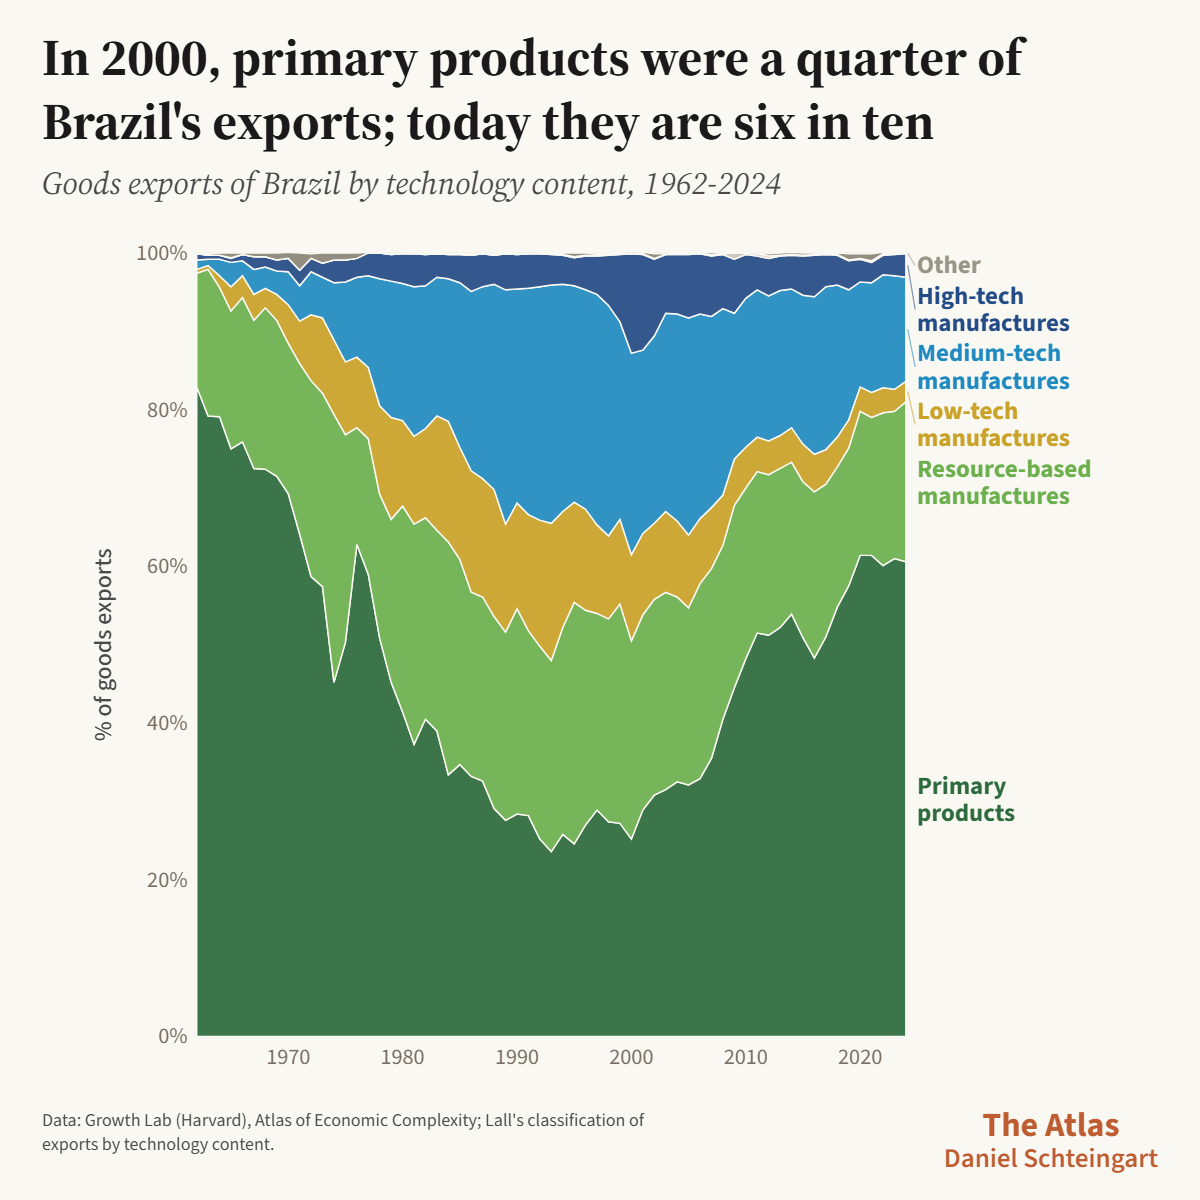
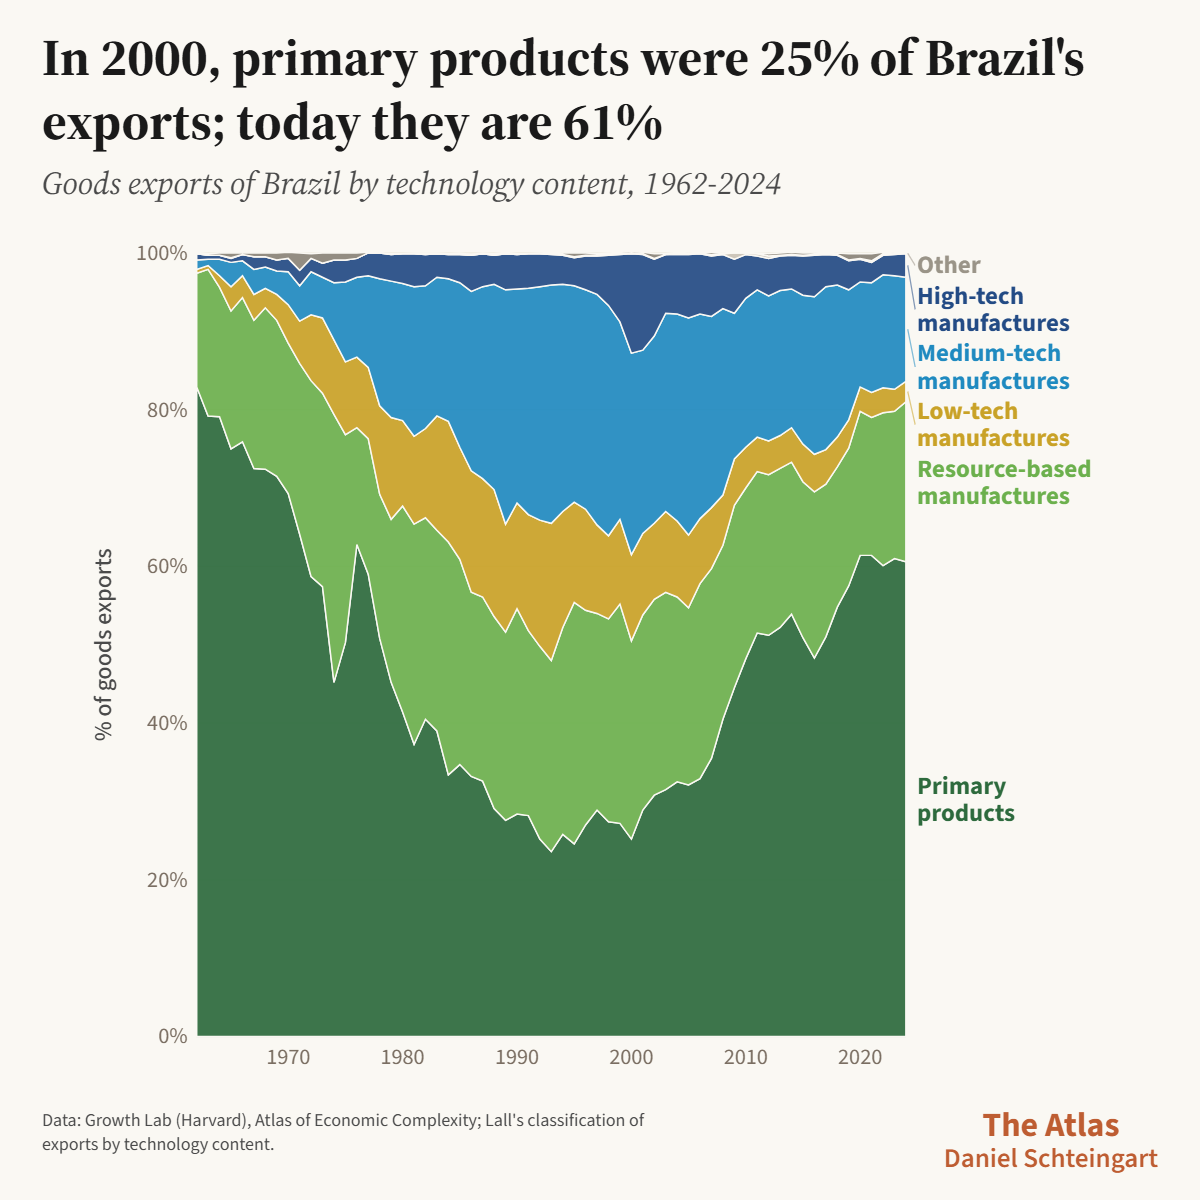
N°6 Brasil: título del gráfico de exportaciones con porcentajes (25% en 2000, 61% hoy)

Changed region(s): [[0.0308, 0.0308, 0.925, 0.1233]]

diff --git a/06-brasil/i18n-issue.js b/06-brasil/i18n-issue.js
@@ -94,7 +94,7 @@ const ISSUE_I18N = {
     'c1-card': '¿Brasil se está acercando a los países ricos?',
 
     // ---- 2 exportaciones
-    'c2-title': 'En 2000, los productos primarios eran un cuarto de las exportaciones de Brasil; hoy son seis de cada diez',
+    'c2-title': 'En 2000, los productos primarios eran el 25% de las exportaciones de Brasil; hoy son el 61%',
     'c2-v-fator': 'Grado de elaboración', 'c2-v-lall': 'Contenido tecnológico', 'c2-v-productos': 'Productos',
     'c2-m-pct': '% del total', 'c2-m-musd': 'Millones de US$',
     'c2-ytitle-pct': '% de las exportaciones de bienes', 'c2-ytitle-musd': 'Millones de US$ corrientes',
@@ -349,7 +349,7 @@ const ISSUE_I18N = {
     'cat-Aviones': 'Aircraft', 'cat-Maquinaria y equipo eléctrico (SH 84-85)': 'Machinery and electrical equipment',
     'c2-sources': 'Data: Growth Lab (Harvard University), Atlas of Economic Complexity: goods trade in SITC Rev. 2 at 4 digits, 1962-2024, in current dollars. Grouped by the Lall (2000) classification in the Argendata (Fundar) version, which counts ores and gold as primary products. Unclassified are special transactions with no product assigned (SITC 9310) and Other covers items such as electricity, coins or postal packages. Shares are computed over total goods.',
     'c2-png-source': 'Data: Growth Lab (Harvard), Atlas of Economic Complexity; Lall\'s classification of exports by technology content.',
-    'c2-title': 'In 2000, primary products were a quarter of Brazil\'s exports; today they are six in ten',
+    'c2-title': 'In 2000, primary products were 25% of Brazil\'s exports; today they are 61%',
     'lall-ns': 'Unclassified',
     'c2-card': 'What does Brazil sell to the world?',
     'lall-pp': 'Primary products', 'lall-rrnn': 'Resource-based manufactures', 'lall-baja': 'Low-tech manufactures',

diff --git a/06-brasil/chart-exportaciones.html b/06-brasil/chart-exportaciones.html
@@ -23,7 +23,7 @@
 <link href="https://fonts.googleapis.com/css2?family=Source+Serif+4:ital,opsz,wght@0,8..60,400;0,8..60,500;0,8..60,600;0,8..60,700;1,8..60,400&family=Source+Sans+3:wght@400;500;600;700&display=swap" rel="stylesheet">
 <link rel="stylesheet" href="../lib/style.css?v=74">
 <link rel="stylesheet" href="../lib/editor.css?v=90">
-<link rel="stylesheet" href="./br.css?v=46">
+<link rel="stylesheet" href="./br.css?v=47">
 </head>
 <body>
 <div class="wrap wrap-wide">
@@ -54,13 +54,13 @@
 </div>
 
 <script src="../lib/i18n.js?v=76"></script>
-<script src="./i18n-issue.js?v=46"></script>
+<script src="./i18n-issue.js?v=47"></script>
 <script src="../lib/utils.js?v=82"></script>
 <script src="../lib/country-names.js?v=74"></script>
-<script src="./data-exportaciones.js?v=46"></script>
+<script src="./data-exportaciones.js?v=47"></script>
 <script src="../lib/editor.js?v=90"></script>
-<script src="./br-motor.js?v=46"></script>
-<script src="./chart-exportaciones.js?v=46"></script>
+<script src="./br-motor.js?v=47"></script>
+<script src="./chart-exportaciones.js?v=47"></script>
 <script src="../lib/png-export.js?v=80"></script>
 <script>
   applyI18n();
@@ -68,6 +68,6 @@
   setupLangToggle(() => { c2_onLang(); });
 </script>
 <div id="chart-nav"></div>
-<script src="./nav.js?v=46"></script>
+<script src="./nav.js?v=47"></script>
 </body>
 </html>

diff --git a/06-brasil/chart-demografia.html b/06-brasil/chart-demografia.html
@@ -23,7 +23,7 @@
 <link href="https://fonts.googleapis.com/css2?family=Source+Serif+4:ital,opsz,wght@0,8..60,400;0,8..60,500;0,8..60,600;0,8..60,700;1,8..60,400&family=Source+Sans+3:wght@400;500;600;700&display=swap" rel="stylesheet">
 <link rel="stylesheet" href="../lib/style.css?v=74">
 <link rel="stylesheet" href="../lib/editor.css?v=90">
-<link rel="stylesheet" href="./br.css?v=46">
+<link rel="stylesheet" href="./br.css?v=47">
 </head>
 <body>
 <div class="wrap wrap-wide">
@@ -54,13 +54,13 @@
 </div>
 
 <script src="../lib/i18n.js?v=76"></script>
-<script src="./i18n-issue.js?v=46"></script>
+<script src="./i18n-issue.js?v=47"></script>
 <script src="../lib/utils.js?v=82"></script>
 <script src="../lib/country-names.js?v=74"></script>
-<script src="./data-demografia.js?v=46"></script>
+<script src="./data-demografia.js?v=47"></script>
 <script src="../lib/editor.js?v=90"></script>
-<script src="./br-motor.js?v=46"></script>
-<script src="./chart-demografia.js?v=46"></script>
+<script src="./br-motor.js?v=47"></script>
+<script src="./chart-demografia.js?v=47"></script>
 <script src="../lib/png-export.js?v=80"></script>
 <script>
   applyI18n();
@@ -68,6 +68,6 @@
   setupLangToggle(() => { c6_onLang(); });
 </script>
 <div id="chart-nav"></div>
-<script src="./nav.js?v=46"></script>
+<script src="./nav.js?v=47"></script>
 </body>
 </html>

diff --git a/06-brasil/chart-educacion.html b/06-brasil/chart-educacion.html
@@ -23,7 +23,7 @@
 <link href="https://fonts.googleapis.com/css2?family=Source+Serif+4:ital,opsz,wght@0,8..60,400;0,8..60,500;0,8..60,600;0,8..60,700;1,8..60,400&family=Source+Sans+3:wght@400;500;600;700&display=swap" rel="stylesheet">
 <link rel="stylesheet" href="../lib/style.css?v=74">
 <link rel="stylesheet" href="../lib/editor.css?v=90">
-<link rel="stylesheet" href="./br.css?v=46">
+<link rel="stylesheet" href="./br.css?v=47">
 </head>
 <body>
 <div class="wrap wrap-wide">
@@ -54,13 +54,13 @@
 </div>
 
 <script src="../lib/i18n.js?v=76"></script>
-<script src="./i18n-issue.js?v=46"></script>
+<script src="./i18n-issue.js?v=47"></script>
 <script src="../lib/utils.js?v=82"></script>
 <script src="../lib/country-names.js?v=74"></script>
-<script src="./data-educacion.js?v=46"></script>
+<script src="./data-educacion.js?v=47"></script>
 <script src="../lib/editor.js?v=90"></script>
-<script src="./br-motor.js?v=46"></script>
-<script src="./chart-educacion.js?v=46"></script>
+<script src="./br-motor.js?v=47"></script>
+<script src="./chart-educacion.js?v=47"></script>
 <script src="../lib/png-export.js?v=80"></script>
 <script>
   applyI18n();
@@ -68,6 +68,6 @@
   setupLangToggle(() => { c5_onLang(); });
 </script>
 <div id="chart-nav"></div>
-<script src="./nav.js?v=46"></script>
+<script src="./nav.js?v=47"></script>
 </body>
 </html>

diff --git a/06-brasil/chart-religion.html b/06-brasil/chart-religion.html
@@ -23,7 +23,7 @@
 <link href="https://fonts.googleapis.com/css2?family=Source+Serif+4:ital,opsz,wght@0,8..60,400;0,8..60,500;0,8..60,600;0,8..60,700;1,8..60,400&family=Source+Sans+3:wght@400;500;600;700&display=swap" rel="stylesheet">
 <link rel="stylesheet" href="../lib/style.css?v=74">
 <link rel="stylesheet" href="../lib/editor.css?v=90">
-<link rel="stylesheet" href="./br.css?v=46">
+<link rel="stylesheet" href="./br.css?v=47">
 </head>
 <body>
 <div class="wrap wrap-wide">
@@ -54,13 +54,13 @@
 </div>
 
 <script src="../lib/i18n.js?v=76"></script>
-<script src="./i18n-issue.js?v=46"></script>
+<script src="./i18n-issue.js?v=47"></script>
 <script src="../lib/utils.js?v=82"></script>
 <script src="../lib/country-names.js?v=74"></script>
-<script src="./data-religion.js?v=46"></script>
+<script src="./data-religion.js?v=47"></script>
 <script src="../lib/editor.js?v=90"></script>
-<script src="./br-motor.js?v=46"></script>
-<script src="./chart-religion.js?v=46"></script>
+<script src="./br-motor.js?v=47"></script>
+<script src="./chart-religion.js?v=47"></script>
 <script src="../lib/png-export.js?v=80"></script>
 <script>
   applyI18n();
@@ -68,6 +68,6 @@
   setupLangToggle(() => { c8_onLang(); });
 </script>
 <div id="chart-nav"></div>
-<script src="./nav.js?v=46"></script>
+<script src="./nav.js?v=47"></script>
 </body>
 </html>

diff --git a/06-brasil/chart-hogares.html b/06-brasil/chart-hogares.html
@@ -23,7 +23,7 @@
 <link href="https://fonts.googleapis.com/css2?family=Source+Serif+4:ital,opsz,wght@0,8..60,400;0,8..60,500;0,8..60,600;0,8..60,700;1,8..60,400&family=Source+Sans+3:wght@400;500;600;700&display=swap" rel="stylesheet">
 <link rel="stylesheet" href="../lib/style.css?v=74">
 <link rel="stylesheet" href="../lib/editor.css?v=90">
-<link rel="stylesheet" href="./br.css?v=46">
+<link rel="stylesheet" href="./br.css?v=47">
 </head>
 <body>
 <div class="wrap wrap-wide">
@@ -54,13 +54,13 @@
 </div>
 
 <script src="../lib/i18n.js?v=76"></script>
-<script src="./i18n-issue.js?v=46"></script>
+<script src="./i18n-issue.js?v=47"></script>
 <script src="../lib/utils.js?v=82"></script>
 <script src="../lib/country-names.js?v=74"></script>
-<script src="./data-hogares.js?v=46"></script>
+<script src="./data-hogares.js?v=47"></script>
 <script src="../lib/editor.js?v=90"></script>
-<script src="./br-motor.js?v=46"></script>
-<script src="./chart-hogares.js?v=46"></script>
+<script src="./br-motor.js?v=47"></script>
+<script src="./chart-hogares.js?v=47"></script>
 <script src="../lib/png-export.js?v=80"></script>
 <script>
   applyI18n();
@@ -68,6 +68,6 @@
   setupLangToggle(() => { c7_onLang(); });
 </script>
 <div id="chart-nav"></div>
-<script src="./nav.js?v=46"></script>
+<script src="./nav.js?v=47"></script>
 </body>
 </html>

diff --git a/06-brasil/chart-pobreza.html b/06-brasil/chart-pobreza.html
@@ -23,7 +23,7 @@
 <link href="https://fonts.googleapis.com/css2?family=Source+Serif+4:ital,opsz,wght@0,8..60,400;0,8..60,500;0,8..60,600;0,8..60,700;1,8..60,400&family=Source+Sans+3:wght@400;500;600;700&display=swap" rel="stylesheet">
 <link rel="stylesheet" href="../lib/style.css?v=74">
 <link rel="stylesheet" href="../lib/editor.css?v=90">
-<link rel="stylesheet" href="./br.css?v=46">
+<link rel="stylesheet" href="./br.css?v=47">
 </head>
 <body>
 <div class="wrap wrap-wide">
@@ -54,13 +54,13 @@
 </div>
 
 <script src="../lib/i18n.js?v=76"></script>
-<script src="./i18n-issue.js?v=46"></script>
+<script src="./i18n-issue.js?v=47"></script>
 <script src="../lib/utils.js?v=82"></script>
 <script src="../lib/country-names.js?v=74"></script>
-<script src="./data-pobreza.js?v=46"></script>
+<script src="./data-pobreza.js?v=47"></script>
 <script src="../lib/editor.js?v=90"></script>
-<script src="./br-motor.js?v=46"></script>
-<script src="./chart-pobreza.js?v=46"></script>
+<script src="./br-motor.js?v=47"></script>
+<script src="./chart-pobreza.js?v=47"></script>
 <script src="../lib/png-export.js?v=80"></script>
 <script>
   applyI18n();
@@ -68,6 +68,6 @@
   setupLangToggle(() => { c4_onLang(); });
 </script>
 <div id="chart-nav"></div>
-<script src="./nav.js?v=46"></script>
+<script src="./nav.js?v=47"></script>
 </body>
 </html>

diff --git a/06-brasil/chart-valores.html b/06-brasil/chart-valores.html
@@ -23,7 +23,7 @@
 <link href="https://fonts.googleapis.com/css2?family=Source+Serif+4:ital,opsz,wght@0,8..60,400;0,8..60,500;0,8..60,600;0,8..60,700;1,8..60,400&family=Source+Sans+3:wght@400;500;600;700&display=swap" rel="stylesheet">
 <link rel="stylesheet" href="../lib/style.css?v=74">
 <link rel="stylesheet" href="../lib/editor.css?v=90">
-<link rel="stylesheet" href="./br.css?v=46">
+<link rel="stylesheet" href="./br.css?v=47">
 </head>
 <body>
 <div class="wrap wrap-wide">
@@ -54,13 +54,13 @@
 </div>
 
 <script src="../lib/i18n.js?v=76"></script>
-<script src="./i18n-issue.js?v=46"></script>
+<script src="./i18n-issue.js?v=47"></script>
 <script src="../lib/utils.js?v=82"></script>
 <script src="../lib/country-names.js?v=74"></script>
-<script src="./data-valores.js?v=46"></script>
+<script src="./data-valores.js?v=47"></script>
 <script src="../lib/editor.js?v=90"></script>
-<script src="./br-motor.js?v=46"></script>
-<script src="./chart-valores.js?v=46"></script>
+<script src="./br-motor.js?v=47"></script>
+<script src="./chart-valores.js?v=47"></script>
 <script src="../lib/png-export.js?v=80"></script>
 <script>
   applyI18n();
@@ -68,6 +68,6 @@
   setupLangToggle(() => { c9_onLang(); });
 </script>
 <div id="chart-nav"></div>
-<script src="./nav.js?v=46"></script>
+<script src="./nav.js?v=47"></script>
 </body>
 </html>

diff --git a/06-brasil/chart-pisa.html b/06-brasil/chart-pisa.html
@@ -23,7 +23,7 @@
 <link href="https://fonts.googleapis.com/css2?family=Source+Serif+4:ital,opsz,wght@0,8..60,400;0,8..60,500;0,8..60,600;0,8..60,700;1,8..60,400&family=Source+Sans+3:wght@400;500;600;700&display=swap" rel="stylesheet">
 <link rel="stylesheet" href="../lib/style.css?v=74">
 <link rel="stylesheet" href="../lib/editor.css?v=90">
-<link rel="stylesheet" href="./br.css?v=46">
+<link rel="stylesheet" href="./br.css?v=47">
 </head>
 <body>
 <div class="wrap wrap-wide">
@@ -54,13 +54,13 @@
 </div>
 
 <script src="../lib/i18n.js?v=76"></script>
-<script src="./i18n-issue.js?v=46"></script>
+<script src="./i18n-issue.js?v=47"></script>
 <script src="../lib/utils.js?v=82"></script>
 <script src="../lib/country-names.js?v=74"></script>
-<script src="./data-educacion.js?v=46"></script>
+<script src="./data-educacion.js?v=47"></script>
 <script src="../lib/editor.js?v=90"></script>
-<script src="./br-motor.js?v=46"></script>
-<script src="./chart-pisa.js?v=46"></script>
+<script src="./br-motor.js?v=47"></script>
+<script src="./chart-pisa.js?v=47"></script>
 <script src="../lib/png-export.js?v=80"></script>
 <script>
   applyI18n();
@@ -68,6 +68,6 @@
   setupLangToggle(() => { c12_onLang(); });
 </script>
 <div id="chart-nav"></div>
-<script src="./nav.js?v=46"></script>
+<script src="./nav.js?v=47"></script>
 </body>
 </html>

diff --git a/06-brasil/chart-mundo.html b/06-brasil/chart-mundo.html
@@ -23,7 +23,7 @@
 <link href="https://fonts.googleapis.com/css2?family=Source+Serif+4:ital,opsz,wght@0,8..60,400;0,8..60,500;0,8..60,600;0,8..60,700;1,8..60,400&family=Source+Sans+3:wght@400;500;600;700&display=swap" rel="stylesheet">
 <link rel="stylesheet" href="../lib/style.css?v=74">
 <link rel="stylesheet" href="../lib/editor.css?v=90">
-<link rel="stylesheet" href="./br.css?v=46">
+<link rel="stylesheet" href="./br.css?v=47">
 </head>
 <body>
 <div class="wrap wrap-wide">
@@ -54,13 +54,13 @@
 </div>
 
 <script src="../lib/i18n.js?v=76"></script>
-<script src="./i18n-issue.js?v=46"></script>
+<script src="./i18n-issue.js?v=47"></script>
 <script src="../lib/utils.js?v=82"></script>
 <script src="../lib/country-names.js?v=74"></script>
-<script src="./data-mundo.js?v=46"></script>
+<script src="./data-mundo.js?v=47"></script>
 <script src="../lib/editor.js?v=90"></script>
-<script src="./br-motor.js?v=46"></script>
-<script src="./chart-mundo.js?v=46"></script>
+<script src="./br-motor.js?v=47"></script>
+<script src="./chart-mundo.js?v=47"></script>
 <script src="../lib/png-export.js?v=80"></script>
 <script>
   applyI18n();
@@ -68,6 +68,6 @@
   setupLangToggle(() => { c13_onLang(); });
 </script>
 <div id="chart-nav"></div>
-<script src="./nav.js?v=46"></script>
+<script src="./nav.js?v=47"></script>
 </body>
 </html>

diff --git a/06-brasil/chart-china.html b/06-brasil/chart-china.html
@@ -23,7 +23,7 @@
 <link href="https://fonts.googleapis.com/css2?family=Source+Serif+4:ital,opsz,wght@0,8..60,400;0,8..60,500;0,8..60,600;0,8..60,700;1,8..60,400&family=Source+Sans+3:wght@400;500;600;700&display=swap" rel="stylesheet">
 <link rel="stylesheet" href="../lib/style.css?v=74">
 <link rel="stylesheet" href="../lib/editor.css?v=90">
-<link rel="stylesheet" href="./br.css?v=46">
+<link rel="stylesheet" href="./br.css?v=47">
 </head>
 <body>
 <div class="wrap wrap-wide">
@@ -54,13 +54,13 @@
 </div>
 
 <script src="../lib/i18n.js?v=76"></script>
-<script src="./i18n-issue.js?v=46"></script>
+<script src="./i18n-issue.js?v=47"></script>
 <script src="../lib/utils.js?v=82"></script>
 <script src="../lib/country-names.js?v=74"></script>
-<script src="./data-china.js?v=46"></script>
+<script src="./data-china.js?v=47"></script>
 <script src="../lib/editor.js?v=90"></script>
-<script src="./br-motor.js?v=46"></script>
-<script src="./chart-china.js?v=46"></script>
+<script src="./br-motor.js?v=47"></script>
+<script src="./chart-china.js?v=47"></script>
 <script src="../lib/png-export.js?v=80"></script>
 <script>
   applyI18n();
@@ -68,6 +68,6 @@
   setupLangToggle(() => { c3_onLang(); });
 </script>
 <div id="chart-nav"></div>
-<script src="./nav.js?v=46"></script>
+<script src="./nav.js?v=47"></script>
 </body>
 </html>

diff --git a/06-brasil/index-en.html b/06-brasil/index-en.html
@@ -150,7 +150,7 @@
 </div>
 
 <script src="../lib/i18n.js?v=76"></script>
-<script src="./i18n-issue.js?v=46"></script>
+<script src="./i18n-issue.js?v=47"></script>
 <script src="../lib/utils.js?v=82"></script>
 <script>
   function applyThumbLang() {
@@ -168,6 +168,6 @@
   setupLangToggle(applyThumbLang);
 </script>
 <div id="chart-nav"></div>
-<script src="./nav.js?v=46"></script>
+<script src="./nav.js?v=47"></script>
 </body>
 </html>
